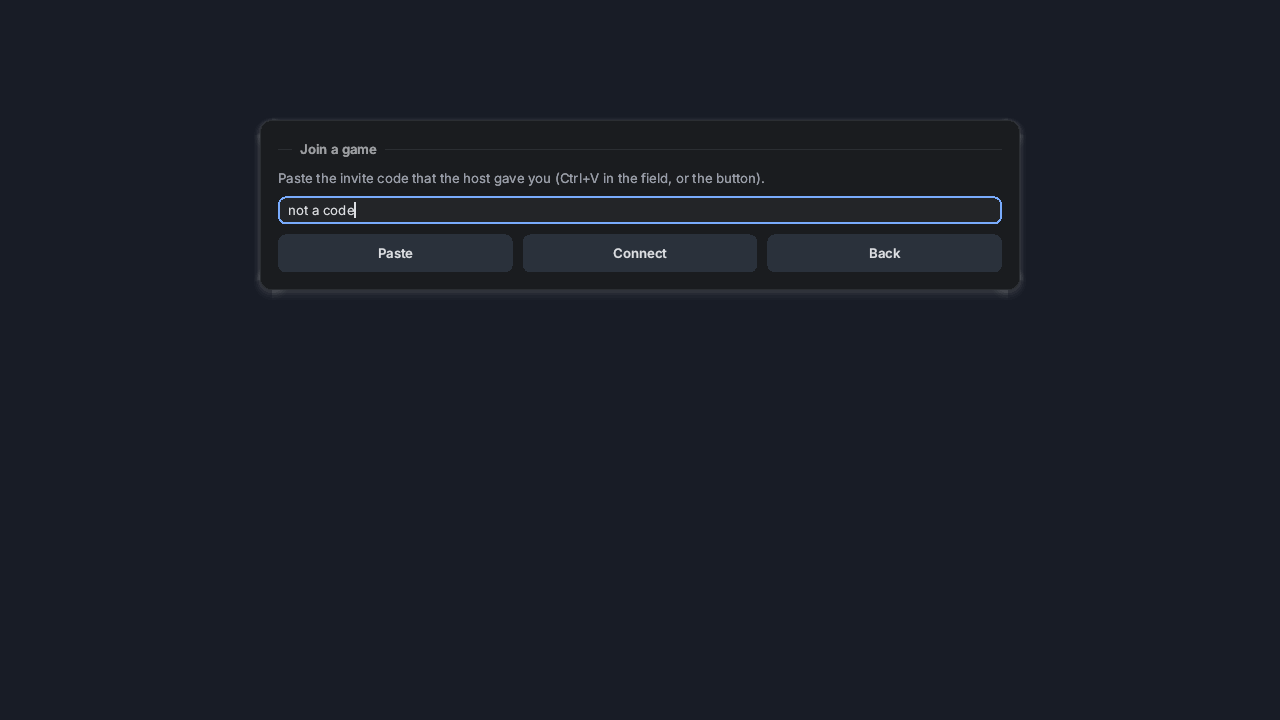
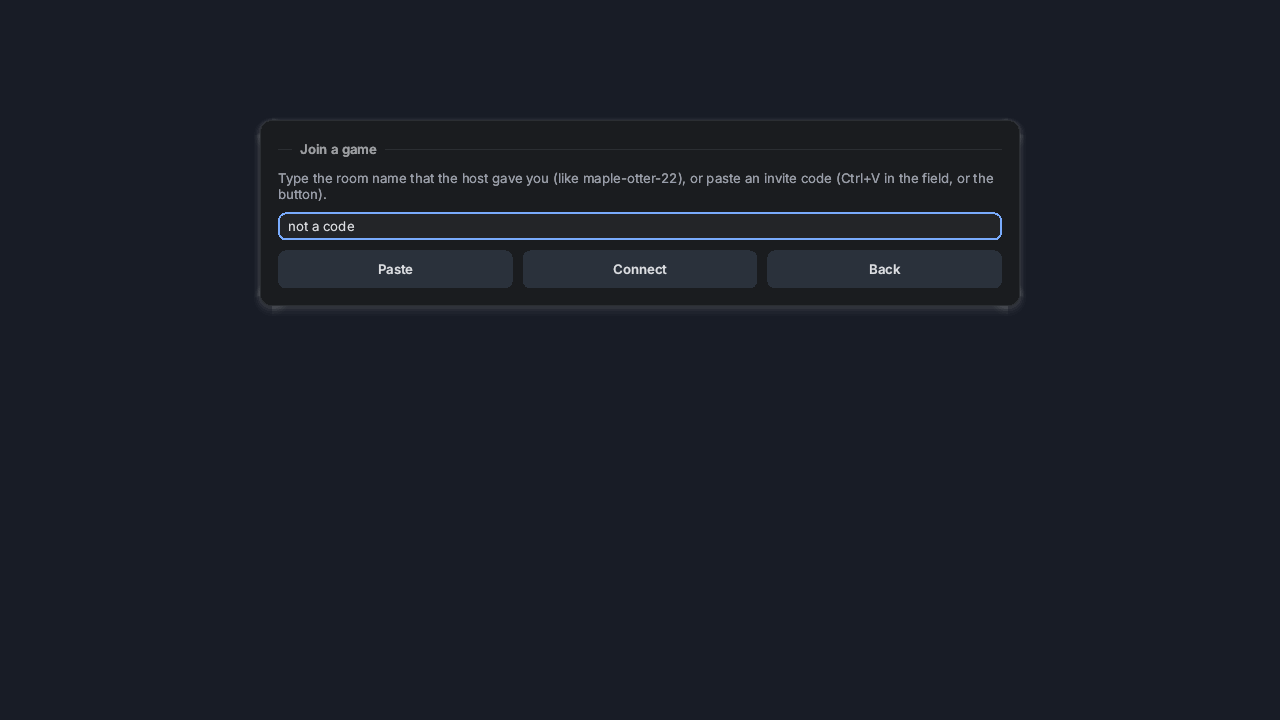
arena: join by a room name through the relay; pictures wait for fades
The host is the key of a room at the relay; a guest types name-relay (maple-otter-22), asks the relay who hosts
it and gets the invite: no code to paste. The join form takes a room name or an invite code. Live test with
ARENA_LIVE=1. Captures wait 15 frames (hover fades made a few hundred pixels differ from run to run); goldens
re-recorded on the BenQ and compared three times on both backends.

Claude-Session: https://claude.ai/code/session_01VmEee8L8hufaEg5kRznT4c

Changed region(s): [[0.1875, 0.2444, 0.8125, 0.4278]]

diff --git a/spacetimedb/arena/AGENTS.md b/spacetimedb/arena/AGENTS.md
@@ -19,3 +19,5 @@ What is not obvious from the code. The rules for every library are in [../../AGE
 - Window tests go through the tool, never `odin run demo_raylib -define:DEMO_TEST=true` by hand (that opens on whatever display is the default): `odin run demo_kit/tool/captures -- --karl2d spacetimedb/arena` puts the windows on the display of `demo_kit/monitor.txt` (BenQ), `-- --update` replaces the pictures. Six pictures per backend: join_form, menu_refused, connecting, host_ready, host_with_friend, guest_playing; codes are masked (`config.mask_codes`) and the right panel is captured with `CaptureIn` (the field changes all the time).
 - p2p is used the way ai_messaging does: `include_loopback` always, the relay chosen with `DerpRace` before the gathering, the host waits for the relay before making the invite, and the events of the link are read every update (`linkEvents`: relay failed/switched/lost, friend joined/left, nobody answered) and shown as a notice in the Connection window.
 - `ServerStop` waits until the process has let go of its log file: a server started right after with the same log file used to fail silently (its redirection could not open the locked file) and the next `HostBegin` timed out.
+- Rooms (`HostOptions.room`, `HostRoom`, `GuestBeginRoom`): the host is the key `DerpChannelKey(name)` at the relay (`link.config.derp_private` before `LinkDerpBegin`), the room code is `name-<relay number>` because both sides must use the same relay; the guest `LinkDerpFind`s the key and gets the host's invite in `link.derp.found` (event `DERP_HOST_FOUND`). The name is the secret of the room. `looksLikeRoom` tells a room name from an invite code. Needs the internet: tested with `ARENA_LIVE=1`.
+- Pictures wait 15 frames before a capture: widgets fade on hover and focus, and a capture taken in the middle of a fade differs by a few hundred pixels from run to run.

diff --git a/spacetimedb/arena/TODO.md b/spacetimedb/arena/TODO.md
@@ -12,3 +12,5 @@ A task starts with `(high)`, `(medium)` (the default) or `(low)`; `(later)` is p
 - [ ] (medium) Client side prediction for the own player (the 50 ms step and the round trip make the own circle feel slightly late)
 - [ ] (low) The same game from Godot (`gdextension/godot_spacetimedb` and a scene)
 - [ ] (low) A dedicated server mode (`host --no-window`) for a machine that only hosts
+- [x] Join by a room name through the relay (no code to paste)
+- [ ] (medium) Sign in with OIDC in the game (the `oidc` library, the `ui` library for the window): the name of the player from the claims, a module that only lets in the trusted provider (`module/example/auth` shows how)
